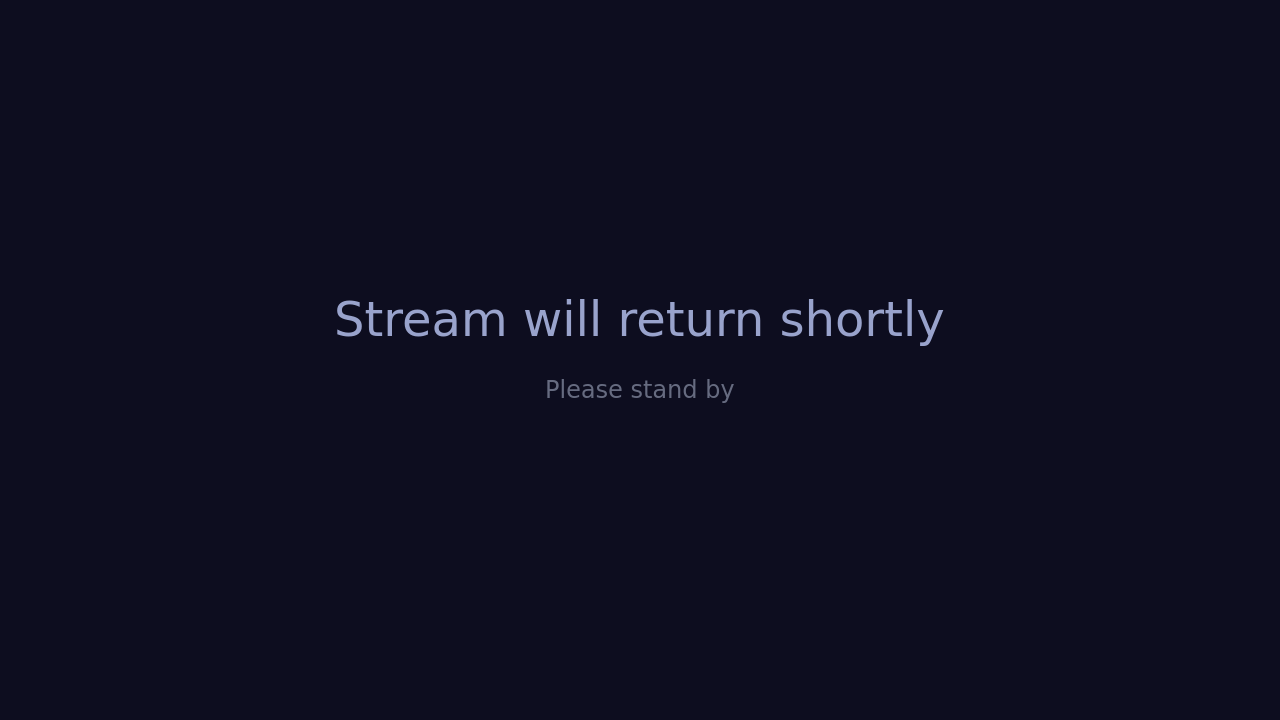
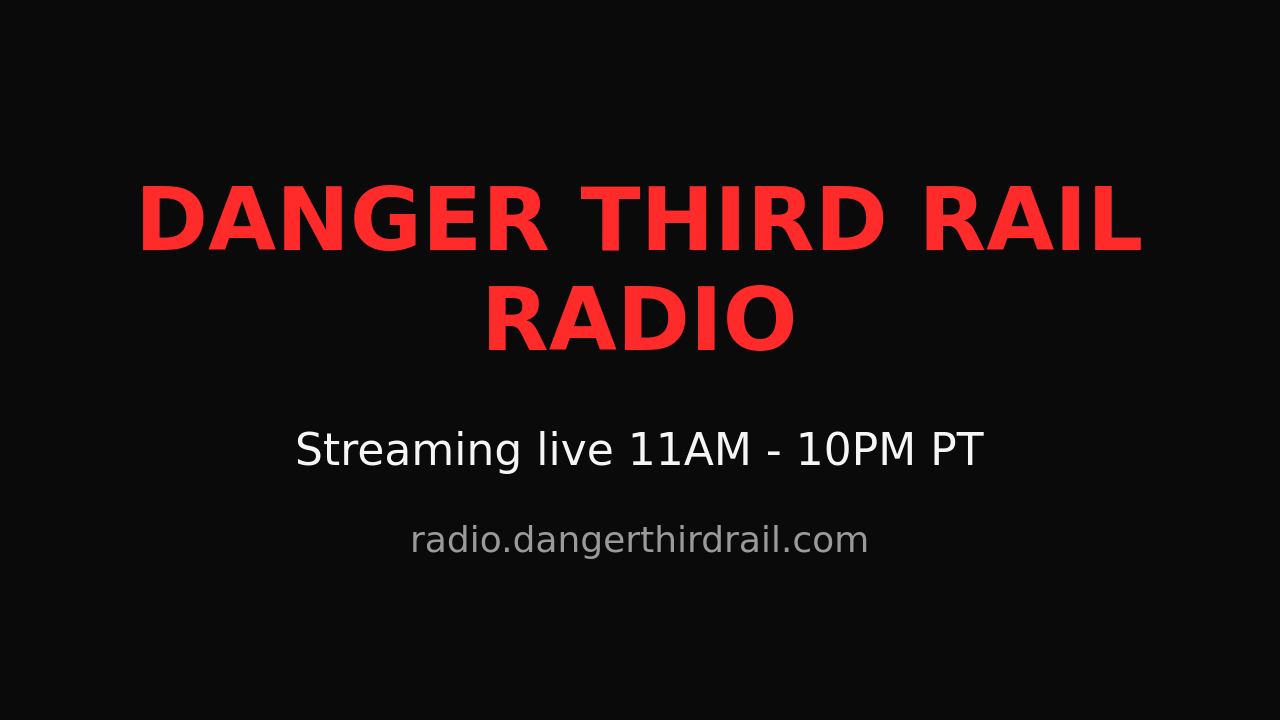
Gate galton-stream on 11:00-22:00 PT active window
Move the time-boxing from chat_poller up to the whole stream. Outside
the window, start.sh sleeps and galton-monitor runs a fallback card
("Danger Third Rail Radio / 11AM-10PM PT / radio.dangerthirdrail.com")
so the YouTube broadcast stays continuously live.

- start.sh: waits for the active window before starting Xvfb/Godot/
  ffmpeg/music/title/chat; tears them down and exits when the window
  closes so Railway restarts back into the sleep loop.
- monitor.py: adds a SCHEDULED_OFF state that keeps the fallback card
  running with all escalation (restart-all, Railway redeploy, "stream
  down" alerts) suppressed. Re-entering the window transitions through
  FALLBACK_ACTIVE so galton-stream can spin up cleanly.
- chat_poller.py: drops the per-poller time gate (moved up a level).
- assets/backup.png: regenerated with the new radio branding.

diff --git a/scripts/chat_poller.py b/scripts/chat_poller.py
@@ -11,7 +11,6 @@ Broadcast discovery still uses REST (liveBroadcasts.list, 1 unit) when
 YOUTUBE_LIVE_CHAT_ID isn't set. Everything else rides the gRPC stream.
 """
 
-import datetime
 import json
 import os
 import sys
@@ -19,7 +18,6 @@ import time
 import urllib.error
 import urllib.parse
 import urllib.request
-from zoneinfo import ZoneInfo
 
 import grpc
 
@@ -40,17 +38,6 @@ TOKEN_REFRESH_INTERVAL = 2700  # 45 minutes
 
 WELCOME_BACK_THRESHOLD = 12 * 3600  # 12 hours
 SEEN_USERS_MAX = 50_000  # cap to avoid unbounded growth over long streams
-
-# Active window — the poller only opens the gRPC stream between
-# ACTIVE_START_HOUR and ACTIVE_END_HOUR in ACTIVE_TZ (inclusive start,
-# exclusive end). gRPC streamList still bills ~900 units/hour against
-# the Data API's 10k/day bucket on an idle chat, so a 24/7 stream
-# exhausts quota each day. Limiting to one ~12-hour window keeps daily
-# consumption under the cap until a quota increase lands.
-ACTIVE_TZ = ZoneInfo("America/Los_Angeles")
-ACTIVE_START_HOUR = 12
-ACTIVE_END_HOUR = 24  # 24 = 23:59:59.999… (exclusive upper bound)
-IDLE_SLEEP = 60
 
 # LiveChatMessageSnippet.TypeWrapper.Type enum values (from stream_list.proto)
 TYPE_TEXT_MESSAGE = 1
@@ -195,11 +182,6 @@ def _item_to_events(item, seen_users, first_pass):
     return events
 
 
-def in_active_window():
-    now = datetime.datetime.now(ACTIVE_TZ)
-    return ACTIVE_START_HOUR <= now.hour < ACTIVE_END_HOUR
-
-
 def run():
     config = load_token_config()
     access_token = get_access_token_retrying(config)
@@ -240,31 +222,8 @@ def run():
     first_pass = True
     next_page_token = ""
     reconnect_delay = 5
-    was_idle = False
 
     while True:
-        if not in_active_window():
-            if not was_idle:
-                now_local = datetime.datetime.now(ACTIVE_TZ).strftime("%H:%M %Z")
-                print(
-                    f"[chat] Outside active window "
-                    f"({ACTIVE_START_HOUR:02d}:00-{ACTIVE_END_HOUR:02d}:00 "
-                    f"{ACTIVE_TZ.key}); sleeping (now {now_local})",
-                    flush=True,
-                )
-                was_idle = True
-            time.sleep(IDLE_SLEEP)
-            continue
-        if was_idle:
-            now_local = datetime.datetime.now(ACTIVE_TZ).strftime("%H:%M %Z")
-            print(f"[chat] Entering active window (now {now_local})", flush=True)
-            was_idle = False
-            # Force a token refresh and a fresh stream on wake.
-            token_refreshed_at = 0
-            first_pass = True
-            next_page_token = ""
-            reconnect_delay = 5
-
         if time.time() - token_refreshed_at > TOKEN_REFRESH_INTERVAL:
             try:
                 access_token = get_access_token_retrying(config)

diff --git a/monitor/monitor.py b/monitor/monitor.py
@@ -11,6 +11,7 @@ Recovery escalation:
 Checks YouTube broadcast status via OAuth on every poll and state transition.
 """
 
+import datetime
 import json
 import os
 import subprocess
@@ -18,6 +19,7 @@ import sys
 import time
 import urllib.parse
 import urllib.request
+from zoneinfo import ZoneInfo
 
 # Configuration
 GALTON_STREAM_URL = os.environ.get(
@@ -45,6 +47,19 @@ _access_token = None
 _token_expires = 0
 
 PREFIX = "Galton monitor:"
+
+# Active window — galton-stream only runs the Godot/ffmpeg/chat/music
+# stack in this window. Outside it, the monitor streams the fallback
+# card without escalating failures. Must match ACTIVE_*_HOUR in
+# galton-stream's start.sh.
+ACTIVE_TZ = ZoneInfo("America/Los_Angeles")
+ACTIVE_START_HOUR = 11
+ACTIVE_END_HOUR = 22
+
+
+def in_active_window():
+    now = datetime.datetime.now(ACTIVE_TZ)
+    return ACTIVE_START_HOUR <= now.hour < ACTIVE_END_HOUR
 
 # State
 fallback_proc = None
@@ -476,6 +491,29 @@ def main():
 
     while True:
         time.sleep(POLL_INTERVAL)
+
+        # Outside the active window galton-stream intentionally sleeps;
+        # we run the fallback card and suppress all escalation.
+        if not in_active_window():
+            if current_state != "SCHEDULED_OFF":
+                set_state(
+                    "SCHEDULED_OFF",
+                    f"outside active window ({ACTIVE_START_HOUR:02d}:00-"
+                    f"{ACTIVE_END_HOUR:02d}:00 {ACTIVE_TZ.key})",
+                )
+                consecutive_failures = 0
+                chat_poller_dead_count = 0
+                title_writer_dead_count = 0
+            if fallback_proc is None or fallback_proc.poll() is not None:
+                start_fallback()
+            continue
+
+        # Entering the active window from SCHEDULED_OFF: keep fallback
+        # running while galton-stream spins up; the NORMAL-recovery branch
+        # below will stop it once health comes back green.
+        if current_state == "SCHEDULED_OFF":
+            set_state("FALLBACK_ACTIVE", "entering active window")
+            consecutive_failures = 0
 
         # Keep fallback alive if it should be running
         if current_state in ("FALLBACK_ACTIVE", "RESTARTED_ALL", "RESTARTED_RAILWAY", "DEAD"):
